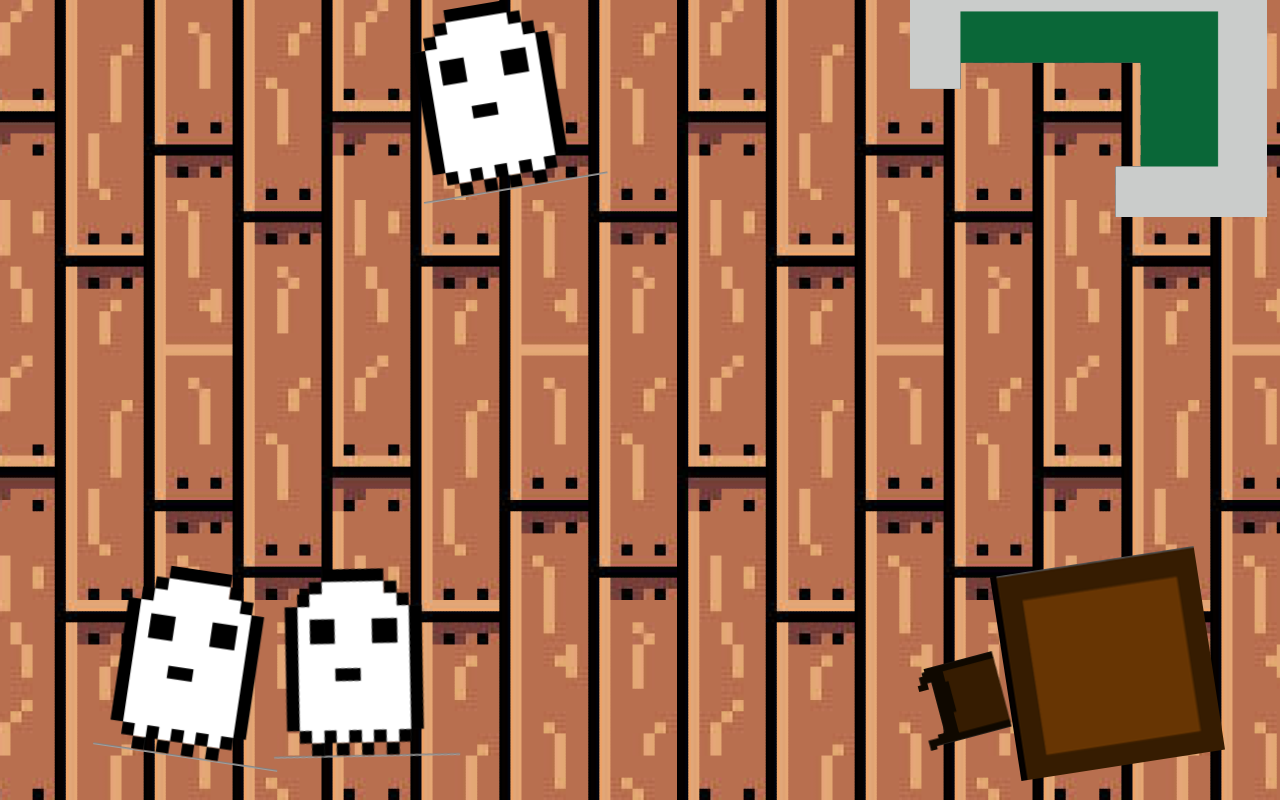
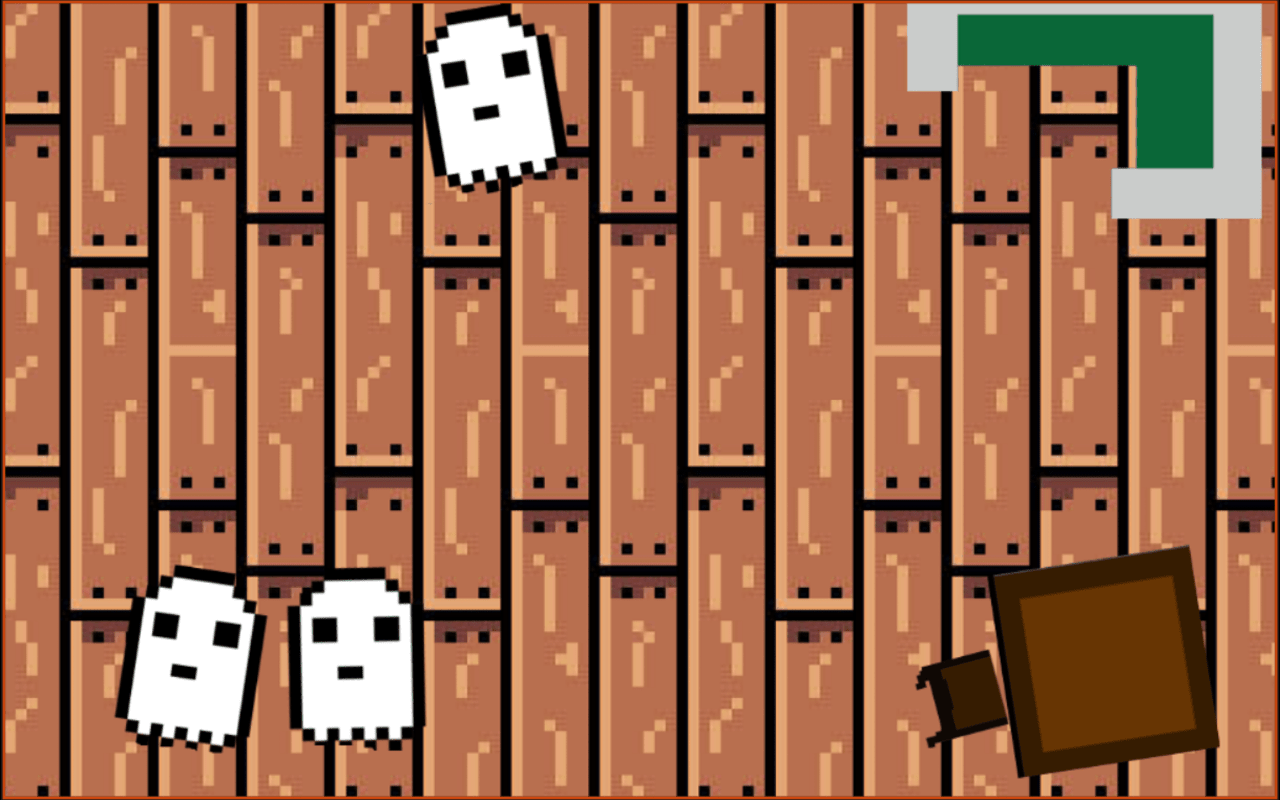
reskin nycklar till trash + visual fixes + simpel-arv

diff --git a/VinterprojektetProg2/Bedroom.cs b/VinterprojektetProg2/Bedroom.cs
@@ -4,24 +4,24 @@ namespace Vinterprojektet
 {
     public class Bedroom
     {
-        private Pickup pickup;
         private Livingroom livingroom; 
+        private TrashTwo trashTwo;  
+        private int[] trashTwoInitialPositions = new int[] { 100, 100, 900, 20, 1100, 700  };
+
 
     
-        private int[] keyRectInitialPositions = new int[] { 100, 100, 900, 20, 1100, 700 };
-
         public Bedroom()
         {
-            pickup = new Pickup(keyRectInitialPositions);
+            trashTwo = new TrashTwo(trashTwoInitialPositions);
         }
 
         public void DrawBedroomScene(Character character, Texture2D bedroomImage, Texture2D doorImage)
         {
             Rectangle sceneChangeLivingroom = new Rectangle(0, 320, doorImage.Width, doorImage.Height);
-            Texture2D keySprite = Raylib.LoadTexture("key.png");
+            Texture2D keySprite = Raylib.LoadTexture("clothespile.png");
             
-            pickup.CollectCollisionen(character);
-            if (pickup.AllaCollected(character))
+            trashTwo.CollectCollisionen(character);
+            if (trashTwo.AllaCollected(character))
             {
                 System.Environment.Exit(0);
             }
@@ -41,7 +41,7 @@ namespace Vinterprojektet
             Raylib.DrawTexture(character.PlayerModel, (int)character.player.X, (int)character.player.Y, character.backgroundcolor);
             Raylib.DrawRectangleRec(sceneChangeLivingroom, Color.BROWN);
             Raylib.DrawTexture(doorImage, (int)sceneChangeLivingroom.X, (int)sceneChangeLivingroom.Y, Color.WHITE);
-            pickup.DrawKeyRectangles(keySprite);
+            trashTwo.DrawKeyRectangles(keySprite);
             }
             
         }

diff --git a/VinterprojektetProg2/Bathroom.cs b/VinterprojektetProg2/Bathroom.cs
@@ -4,29 +4,26 @@ namespace Vinterprojektet
 {
     public class Bathroom
     {
-        private Pickup pickup;
         private Livingroom livingroom; 
+        private TrashOne trashOne;  
+        private int[] trashOneInitialPositions = new int[] { 250, 90,  };
 
         
-        private int[] keyRectInitialPositions = new int[] { 250, 90,  };
 
         public Bathroom()
         {
-            pickup = new Pickup(keyRectInitialPositions);
+            trashOne = new TrashOne(trashOneInitialPositions);
         }
-
-
-        
-
+       
         public void DrawBathroomScene(Character character, Texture2D bathroomImage, Texture2D doorImage)
         {
             Rectangle sceneChangeLivingroom = new Rectangle(1180, 320, doorImage.Width, doorImage.Height);
-            Texture2D keySprite = Raylib.LoadTexture("key.png");
+            Texture2D keySprite = Raylib.LoadTexture("poop.png");
 
 
 
-            pickup.CollectCollisionen(character);
-            if (pickup.AllaCollected(character))
+            trashOne.CollectCollisionen(character);
+            if (trashOne.AllaCollected(character))
             {
                 System.Environment.Exit(0);
             }
@@ -44,7 +41,7 @@ namespace Vinterprojektet
             Raylib.DrawTexture(character.PlayerModel, (int)character.player.X, (int)character.player.Y, character.backgroundcolor);
             Raylib.DrawRectangleRec(sceneChangeLivingroom, Color.BROWN);
             Raylib.DrawTexture(doorImage, (int)sceneChangeLivingroom.X, (int)sceneChangeLivingroom.Y, Color.WHITE);
-            pickup.DrawKeyRectangles(keySprite);
+            trashOne.DrawKeyRectangles(keySprite);
 
 
             }

diff --git a/VinterprojektetProg2/Livingroom.cs b/VinterprojektetProg2/Livingroom.cs
@@ -21,9 +21,8 @@ namespace Vinterprojektet
         {
             Rectangle sceneChangeBedroom = new Rectangle(1180, 320, doorImage.Width, doorImage.Height);
             Rectangle sceneChangeBathroom = new Rectangle(0, 320, doorImage.Width, doorImage.Height);
-            Texture2D keySprite = Raylib.LoadTexture("key.png");
+            Texture2D keySprite = Raylib.LoadTexture("trashbag.png");
 
-// DENNA DEL ÄR PICKUP IRMGFIREMGOREJGIOERJGIERJGOIERJGRIOEJGOIERJGIOERJGIERJGOIRE
             pickup.CollectCollisionen(character);
             if (pickup.AllaCollected(character))
             {

diff --git a/VinterprojektetProg2/TrashOne.cs b/VinterprojektetProg2/TrashOne.cs
@@ -1,0 +1,17 @@
+using Raylib_cs;
+
+namespace Vinterprojektet
+{
+    public class TrashOne : Pickup
+    {
+        public TrashOne(int[] initialPositions) : base(initialPositions)
+        {
+        }
+
+        public void CollectCollisionen(Character character)
+        {
+            base.CollectCollisionen(character);
+        }
+    }
+}
+

diff --git a/VinterprojektetProg2/TrashTwo.cs b/VinterprojektetProg2/TrashTwo.cs
@@ -1,0 +1,16 @@
+using Raylib_cs;
+
+namespace Vinterprojektet
+{
+    public class TrashTwo : Pickup
+    {
+        public TrashTwo(int[] initialPositions) : base(initialPositions)
+        {
+        }
+
+        public void CollectCollisionen(Character character)
+        {
+            base.CollectCollisionen(character);
+        }
+    }
+}

diff --git a/VinterprojektetProg2/Program.cs b/VinterprojektetProg2/Program.cs
@@ -64,3 +64,6 @@ while (Raylib.WindowShouldClose() == false)
     }
     Raylib.EndDrawing();
 }
+
+// kom ihåg du e dumm i bollen å använder svenska här o engelska där bara vnänd 1 i slutändan 
+// fixa det!!! men på slutet för kommr fortsätta va dumm å göra de
